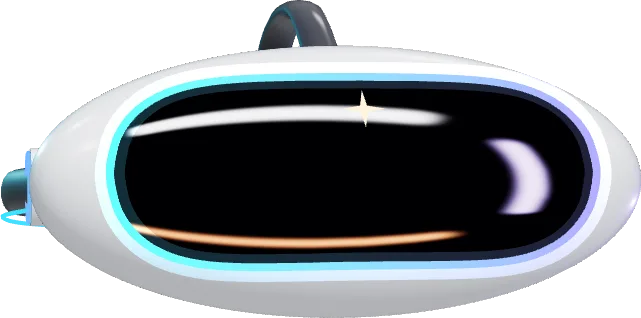
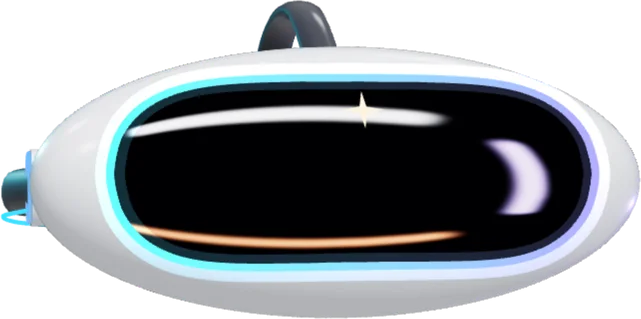
fix(website): crisp rendering and randomised rocket launches
- End fly-in animations flat (translate: none, no rotate) so text is
  not left on a 3D layer that Chrome resamples at fractional zoom
- Drop the resting rotateY tilt on hero chips and preserve-3d on the arc
- More opaque panels, stronger edges, brighter secondary text, tighter
  glows on the saber and contact headlines
- Ship a 2x headset still with srcset and matching preload
- Rocket launches from a random spot either side of the copy with its
  own drift, height, tilt and duration, every 25-55 s

Claude-Session: https://claude.ai/code/session_01CT9mqmMpgJ7oBaXzLqfT2Q

diff --git a/website/styles.css b/website/styles.css
@@ -15,14 +15,14 @@
   /* Night & surfaces */
   --night: #07090f;
   --night-2: #0b0e17;
-  --window: rgba(14, 17, 27, 0.82);
-  --window-hi: rgba(22, 26, 40, 0.9);
-  --edge: rgba(243, 239, 231, 0.09);
-  --edge-strong: rgba(243, 239, 231, 0.2);
+  --window: rgba(13, 16, 25, 0.95);
+  --window-hi: rgba(23, 27, 41, 0.97);
+  --edge: rgba(243, 239, 231, 0.15);
+  --edge-strong: rgba(243, 239, 231, 0.28);
 
   /* Text */
   --bone: #f3efe7;
-  --dim: #a8a297;
+  --dim: #bcb6aa;
   --faint: #8f8a81;   /* 5.9:1 on --night (WCAG AA) */
 
   /* Light */
@@ -294,7 +294,7 @@ body::after { bottom: 0; height: 120px; background: linear-gradient(transparent,
   background: linear-gradient(180deg, var(--window-hi), var(--window));
   border: 1px solid var(--edge);
   border-radius: var(--r-window);
-  box-shadow: inset 0 1px 0 rgba(255, 255, 255, 0.06), 0 40px 80px -40px rgba(0, 0, 0, 0.9);
+  box-shadow: inset 0 1px 0 rgba(255, 255, 255, 0.1), 0 24px 48px -24px rgba(0, 0, 0, 0.85);
 }
 .window::after {
   content: ""; position: absolute; left: 50%; bottom: -16px; width: 56px; height: 5px; translate: -50% 0;
@@ -305,7 +305,7 @@ body::after { bottom: 0; height: 120px; background: linear-gradient(transparent,
 
 /* Panels arranged on a gentle curve, like a wrap-around VR display. */
 .arc { display: grid; gap: clamp(14px, 1.6vw, 24px); perspective: 1600px; }
-.arc__slot { transform-style: preserve-3d; transition: transform 0.6s var(--ease-out); }
+.arc__slot { transition: transform 0.6s var(--ease-out); }
 
 /* =========================================================
    Layout
@@ -332,11 +332,10 @@ main { position: relative; z-index: 1; padding-bottom: 120px; }
   -webkit-text-stroke: 1.5px #ff3d3d;
   paint-order: stroke fill;
   text-shadow:
-    0 0 2px #fff,
-    0 0 6px rgba(255, 70, 70, 0.95),
-    0 0 14px rgba(255, 32, 32, 0.8),
-    0 0 32px rgba(255, 20, 20, 0.55),
-    0 0 64px rgba(255, 10, 10, 0.3);
+    0 0 1px #fff,
+    0 0 4px rgba(255, 70, 70, 0.95),
+    0 0 10px rgba(255, 32, 32, 0.75),
+    0 0 24px rgba(255, 20, 20, 0.45);
 }
 @keyframes saber-ignite {
   from { -webkit-text-stroke-color: rgba(255, 61, 61, 0); text-shadow: 0 0 0 transparent, 0 0 0 transparent, 0 0 0 transparent, 0 0 0 transparent, 0 0 0 transparent; color: var(--bone); }
@@ -362,10 +361,6 @@ main { position: relative; z-index: 1; padding-bottom: 120px; }
 .hero__hint span { width: 1px; height: 34px; background: linear-gradient(transparent, var(--bone)); animation: hint 2.2s var(--ease-out) infinite; transform-origin: top; }
 @keyframes hint { 0% { transform: scaleY(0); opacity: 1; } 70% { transform: scaleY(1); opacity: 1; } 100% { transform: scaleY(1); opacity: 0; } }
 
-@media (min-width: 900px) {
-  .arc--hero .arc__slot:first-child { transform: rotateY(16deg) translateZ(-10px); transform-origin: right center; }
-  .arc--hero .arc__slot:last-child { transform: rotateY(-16deg) translateZ(-10px); transform-origin: left center; }
-}
 
 /* Zones */
 .zone { padding: clamp(90px, 14vh, 150px) 0 0; }
@@ -434,7 +429,7 @@ main { position: relative; z-index: 1; padding-bottom: 120px; }
 
 /* Contact */
 .zone--contact { display: grid; justify-items: center; gap: 18px; text-align: center; padding-bottom: 40px; }
-.contact__title { font: 800 clamp(3rem, 1rem + 8vw, 7.5rem)/0.9 var(--font-display); text-transform: uppercase; text-shadow: 0 0 60px rgba(255, 181, 71, 0.2); }
+.contact__title { font: 800 clamp(3rem, 1rem + 8vw, 7.5rem)/0.9 var(--font-display); text-transform: uppercase; text-shadow: 0 0 24px rgba(255, 181, 71, 0.16); }
 .contact__lede { color: var(--dim); font-size: 1.15rem; margin-bottom: 10px; }
 
 /* Footer */
@@ -459,7 +454,7 @@ main { position: relative; z-index: 1; padding-bottom: 120px; }
     opacity: 0; translate: 0 40px -220px;
     transition: opacity 0.9s var(--ease-out), translate 0.9s var(--ease-out);
   }
-  .io .is-in { opacity: 1; translate: 0 0 0; }
+  .io .is-in { opacity: 1; translate: none; }
   .hero__copy > * { animation: rise-in 1s var(--ease-out) both; }
   .hero__copy > :nth-child(2) { animation-delay: 0.08s; }
   /* The headline rises in, ignites like a blade, then hums with a rare flicker. */
@@ -470,10 +465,10 @@ main { position: relative; z-index: 1; padding-bottom: 120px; }
   .arc--hero .arc__slot:nth-child(2) .window { animation-delay: 0.4s; }
   .arc--hero .arc__slot:nth-child(3) .window { animation-delay: 0.5s; }
 }
-/* Uses the individual translate/rotate properties so hover transforms still compose. */
+/* Uses the individual translate property so hover transforms still compose. */
 @keyframes approach {
-  from { opacity: 0; translate: 0 60px -260px; rotate: x 8deg; }
-  to { opacity: 1; translate: 0 0 0; rotate: x 0deg; }
+  from { opacity: 0; translate: 0 60px -260px; }
+  to { opacity: 1; translate: none; } /* flat at rest: a leftover 3D transform blurs text */
 }
 @keyframes approach-in { from { opacity: 0; translate: 0 30px -300px; } }
 @keyframes rise-in { from { opacity: 0; transform: translateY(24px); filter: blur(8px); } }
@@ -799,7 +794,7 @@ main { position: relative; z-index: 1; padding-bottom: 120px; }
 
 /* The screen flies in as one piece rather than pane by pane. */
 .monitor .window { animation: none; }
-.io .monitor .window { opacity: 1; translate: 0 0 0; }
+.io .monitor .window { opacity: 1; translate: none; }
 @media (prefers-reduced-motion: no-preference) {
   @supports (animation-timeline: view()) {
     .monitor { animation: approach linear both; animation-timeline: view(); animation-range: entry 0% entry 85%; }
@@ -829,7 +824,7 @@ main { position: relative; z-index: 1; padding-bottom: 120px; }
 .env__layer--blocks { --depth: 30; }
 .env__blocks { position: absolute; inset: 0; width: 100%; height: 100%; }
 
-.env__rocket { position: absolute; left: 21%; top: 66%; width: 16px; height: 32px; opacity: 0; filter: drop-shadow(0 0 6px rgba(255, 181, 71, 0.45)); }
+.env__rocket { position: absolute; left: var(--x, 21%); top: 66%; width: 16px; height: 32px; opacity: 0; filter: drop-shadow(0 0 6px rgba(255, 181, 71, 0.45)); }
 .env__rocket svg { width: 100%; height: 100%; overflow: visible; }
 .env__rocket-body { fill: rgba(243, 239, 231, 0.85); fill-rule: evenodd; }
 .env__rocket-flame { fill: var(--sun); transform-box: fill-box; transform-origin: 50% 0; }
@@ -837,15 +832,17 @@ main { position: relative; z-index: 1; padding-bottom: 120px; }
   content: ""; position: absolute; left: 50%; top: 92%; width: 2px; height: 70px; translate: -50% 0;
   border-radius: 2px; background: linear-gradient(rgba(255, 181, 71, 0.55), rgba(255, 107, 53, 0.15) 40%, transparent);
 }
+/* Each flight is started by ambient.js with a random spot, drift and height,
+   at random intervals, so no two launches look alike. */
 @media (prefers-reduced-motion: no-preference) {
-  .env__rocket { animation: rocket-launch 30s 6s infinite; }
-  .env__rocket-flame { animation: flame 0.12s steps(2) infinite alternate; }
+  .env__rocket.is-flying { animation: rocket-fly var(--dur, 5.6s) both; }
+  .env__rocket.is-flying .env__rocket-flame { animation: flame 0.12s steps(2) infinite alternate; }
 }
-@keyframes rocket-launch {
-  0% { opacity: 0; transform: translate(0, 0) rotate(6deg) scale(1); animation-timing-function: cubic-bezier(0.5, 0, 0.9, 0.6); }
-  1.5% { opacity: 0.9; }
-  17% { opacity: 0.8; transform: translate(9vw, -46vh) rotate(24deg) scale(0.5); }
-  19%, 100% { opacity: 0; transform: translate(10vw, -50vh) rotate(26deg) scale(0.45); }
+@keyframes rocket-fly {
+  0% { opacity: 0; transform: translate(0, 0) rotate(calc(var(--tilt, 24deg) * 0.25)) scale(1); animation-timing-function: cubic-bezier(0.5, 0, 0.9, 0.6); }
+  8% { opacity: 0.9; }
+  88% { opacity: 0.8; transform: translate(calc(var(--dx, 9vw) * 0.9), calc(var(--dy, -46vh) * 0.92)) rotate(var(--tilt, 24deg)) scale(0.5); }
+  100% { opacity: 0; transform: translate(var(--dx, 9vw), var(--dy, -46vh)) rotate(var(--tilt, 24deg)) scale(0.45); }
 }
 @keyframes flame { from { transform: scaleY(0.75); } to { transform: scaleY(1.15); } }
 @media (prefers-reduced-motion: reduce) { .env__rocket, .env__blocks { display: none; } }

diff --git a/website/index.html b/website/index.html
@@ -3,7 +3,7 @@
 <head>
   <meta charset="utf-8">
   <meta name="viewport" content="width=device-width, initial-scale=1, viewport-fit=cover">
-  <meta http-equiv="Content-Security-Policy" content="default-src 'self'; script-src 'self' 'sha256-UwckGPF+8+l5vjdqxF6wEvg8WxuOH6wyUQQgjG2rTX4=' 'sha256-zEsbks1f0qj8FtyZts3g7UNymtXeO9bfhYjqFdzKLrE=' https://www.googletagmanager.com; style-src 'self'; img-src 'self' https://*.google-analytics.com https://*.googletagmanager.com; font-src 'self'; connect-src 'self' https://*.google-analytics.com https://*.analytics.google.com https://*.googletagmanager.com; manifest-src 'self'; media-src 'none'; frame-src 'none'; worker-src 'none'; object-src 'none'; base-uri 'self'; form-action 'none'; require-trusted-types-for 'script'; trusted-types ns-ga; upgrade-insecure-requests">
+  <meta http-equiv="Content-Security-Policy" content="default-src 'self'; script-src 'self' 'sha256-EcHmrf6U525uPR07hQ+ZnS2SMNOCq/3lg8GQDUNsf3s=' 'sha256-zEsbks1f0qj8FtyZts3g7UNymtXeO9bfhYjqFdzKLrE=' https://www.googletagmanager.com; style-src 'self'; img-src 'self' https://*.google-analytics.com https://*.googletagmanager.com; font-src 'self'; connect-src 'self' https://*.google-analytics.com https://*.analytics.google.com https://*.googletagmanager.com; manifest-src 'self'; media-src 'none'; frame-src 'none'; worker-src 'none'; object-src 'none'; base-uri 'self'; form-action 'none'; require-trusted-types-for 'script'; trusted-types ns-ga; upgrade-insecure-requests">
   <meta name="referrer" content="strict-origin-when-cross-origin">
   <title>NorthStar Studioz — Independent Mixed Reality Game Studio</title>
   <meta name="description" content="NorthStar Studioz makes tactile mixed reality games for Meta Quest. Play with your bare hands, on the furniture you already own. Independent studio, India.">
@@ -33,7 +33,10 @@
             document.head.appendChild(l);
           };
           add('preload', 'assets/fonts/unbounded.woff2', 'font');
-          add('preload', 'assets/brand/headset.webp', 'image');
+          var img = document.createElement('link');
+          img.rel = 'preload'; img.as = 'image'; img.href = 'assets/brand/headset.webp';
+          img.imageSrcset = 'assets/brand/headset.webp 1x, assets/brand/headset@2x.webp 2x';
+          document.head.appendChild(img);
         }
       } catch (e) {}
     })();
@@ -155,7 +158,7 @@
         <text x="80" y="128">LD</text>
       </svg>
     </div>
-    <img class="gate__still" src="assets/brand/headset.webp" width="641" height="318" alt="" aria-hidden="true" decoding="async">
+    <img class="gate__still" src="assets/brand/headset.webp" srcset="assets/brand/headset.webp 1x, assets/brand/headset@2x.webp 2x" width="641" height="318" alt="" aria-hidden="true" decoding="async">
     <canvas class="gate__canvas" aria-hidden="true"></canvas>
 
     <p class="gate__title" id="gate-title">

diff --git a/website/assets/js/ambient.js b/website/assets/js/ambient.js
@@ -122,3 +122,27 @@ export function startBlocks(canvas) {
   document.addEventListener('visibilitychange', () => (document.hidden ? stop() : run()));
   run();
 }
+
+// A small rocket launches from behind the far ridge at random intervals, from a
+// random spot either side of the centred copy, with its own drift and height.
+export function startRocket(el) {
+  let timer = 0;
+  const launch = () => {
+    if (document.hidden) return schedule(5000);
+    const leftSide = Math.random() < 0.5;
+    const x = leftSide ? rand(6, 30) : rand(70, 92);
+    const drift = rand(5, 12) * (leftSide ? 1 : -1); // arc away from the centre
+    el.style.setProperty('--x', `${x.toFixed(1)}%`);
+    el.style.setProperty('--dx', `${drift.toFixed(1)}vw`);
+    el.style.setProperty('--dy', `${-rand(38, 55).toFixed(1)}vh`);
+    el.style.setProperty('--tilt', `${(drift > 0 ? 1 : -1) * rand(14, 30).toFixed(1)}deg`);
+    el.style.setProperty('--dur', `${rand(4.8, 6.6).toFixed(2)}s`);
+    el.classList.remove('is-flying');
+    void el.offsetWidth; // restart the animation
+    el.classList.add('is-flying');
+    schedule(rand(25000, 55000));
+  };
+  const schedule = (ms) => { clearTimeout(timer); timer = setTimeout(launch, ms); };
+  el.addEventListener('animationend', (e) => { if (e.animationName === 'rocket-fly') el.classList.remove('is-flying'); });
+  schedule(rand(5000, 12000));
+}

diff --git a/website/assets/js/site.js b/website/assets/js/site.js
@@ -375,11 +375,15 @@ if (!reduceMotion && !CSS.supports('animation-timeline: view()')) {
   document.querySelectorAll('.window, .zone__head, .zone--contact > *').forEach((el) => io.observe(el));
 }
 
-/* ---------- Ambient building blocks (decorative, loaded last) ---------- */
+/* ---------- Ambient building blocks and rocket (decorative, loaded last) ---------- */
 const blocksCanvas = document.querySelector('.env__blocks');
 if (blocksCanvas && !reduceMotion) {
   const idle = window.requestIdleCallback || ((cb) => setTimeout(cb, 1200));
-  const go = () => idle(() => import('./ambient.js').then((m) => m.startBlocks(blocksCanvas)).catch(() => {}), { timeout: 4000 });
+  const rocket = document.querySelector('.env__rocket');
+  const go = () => idle(() => import('./ambient.js').then((m) => {
+    m.startBlocks(blocksCanvas);
+    if (rocket) m.startRocket(rocket);
+  }).catch(() => {}), { timeout: 4000 });
   if (document.readyState === 'complete') go(); else addEventListener('load', go, { once: true });
 }
 
